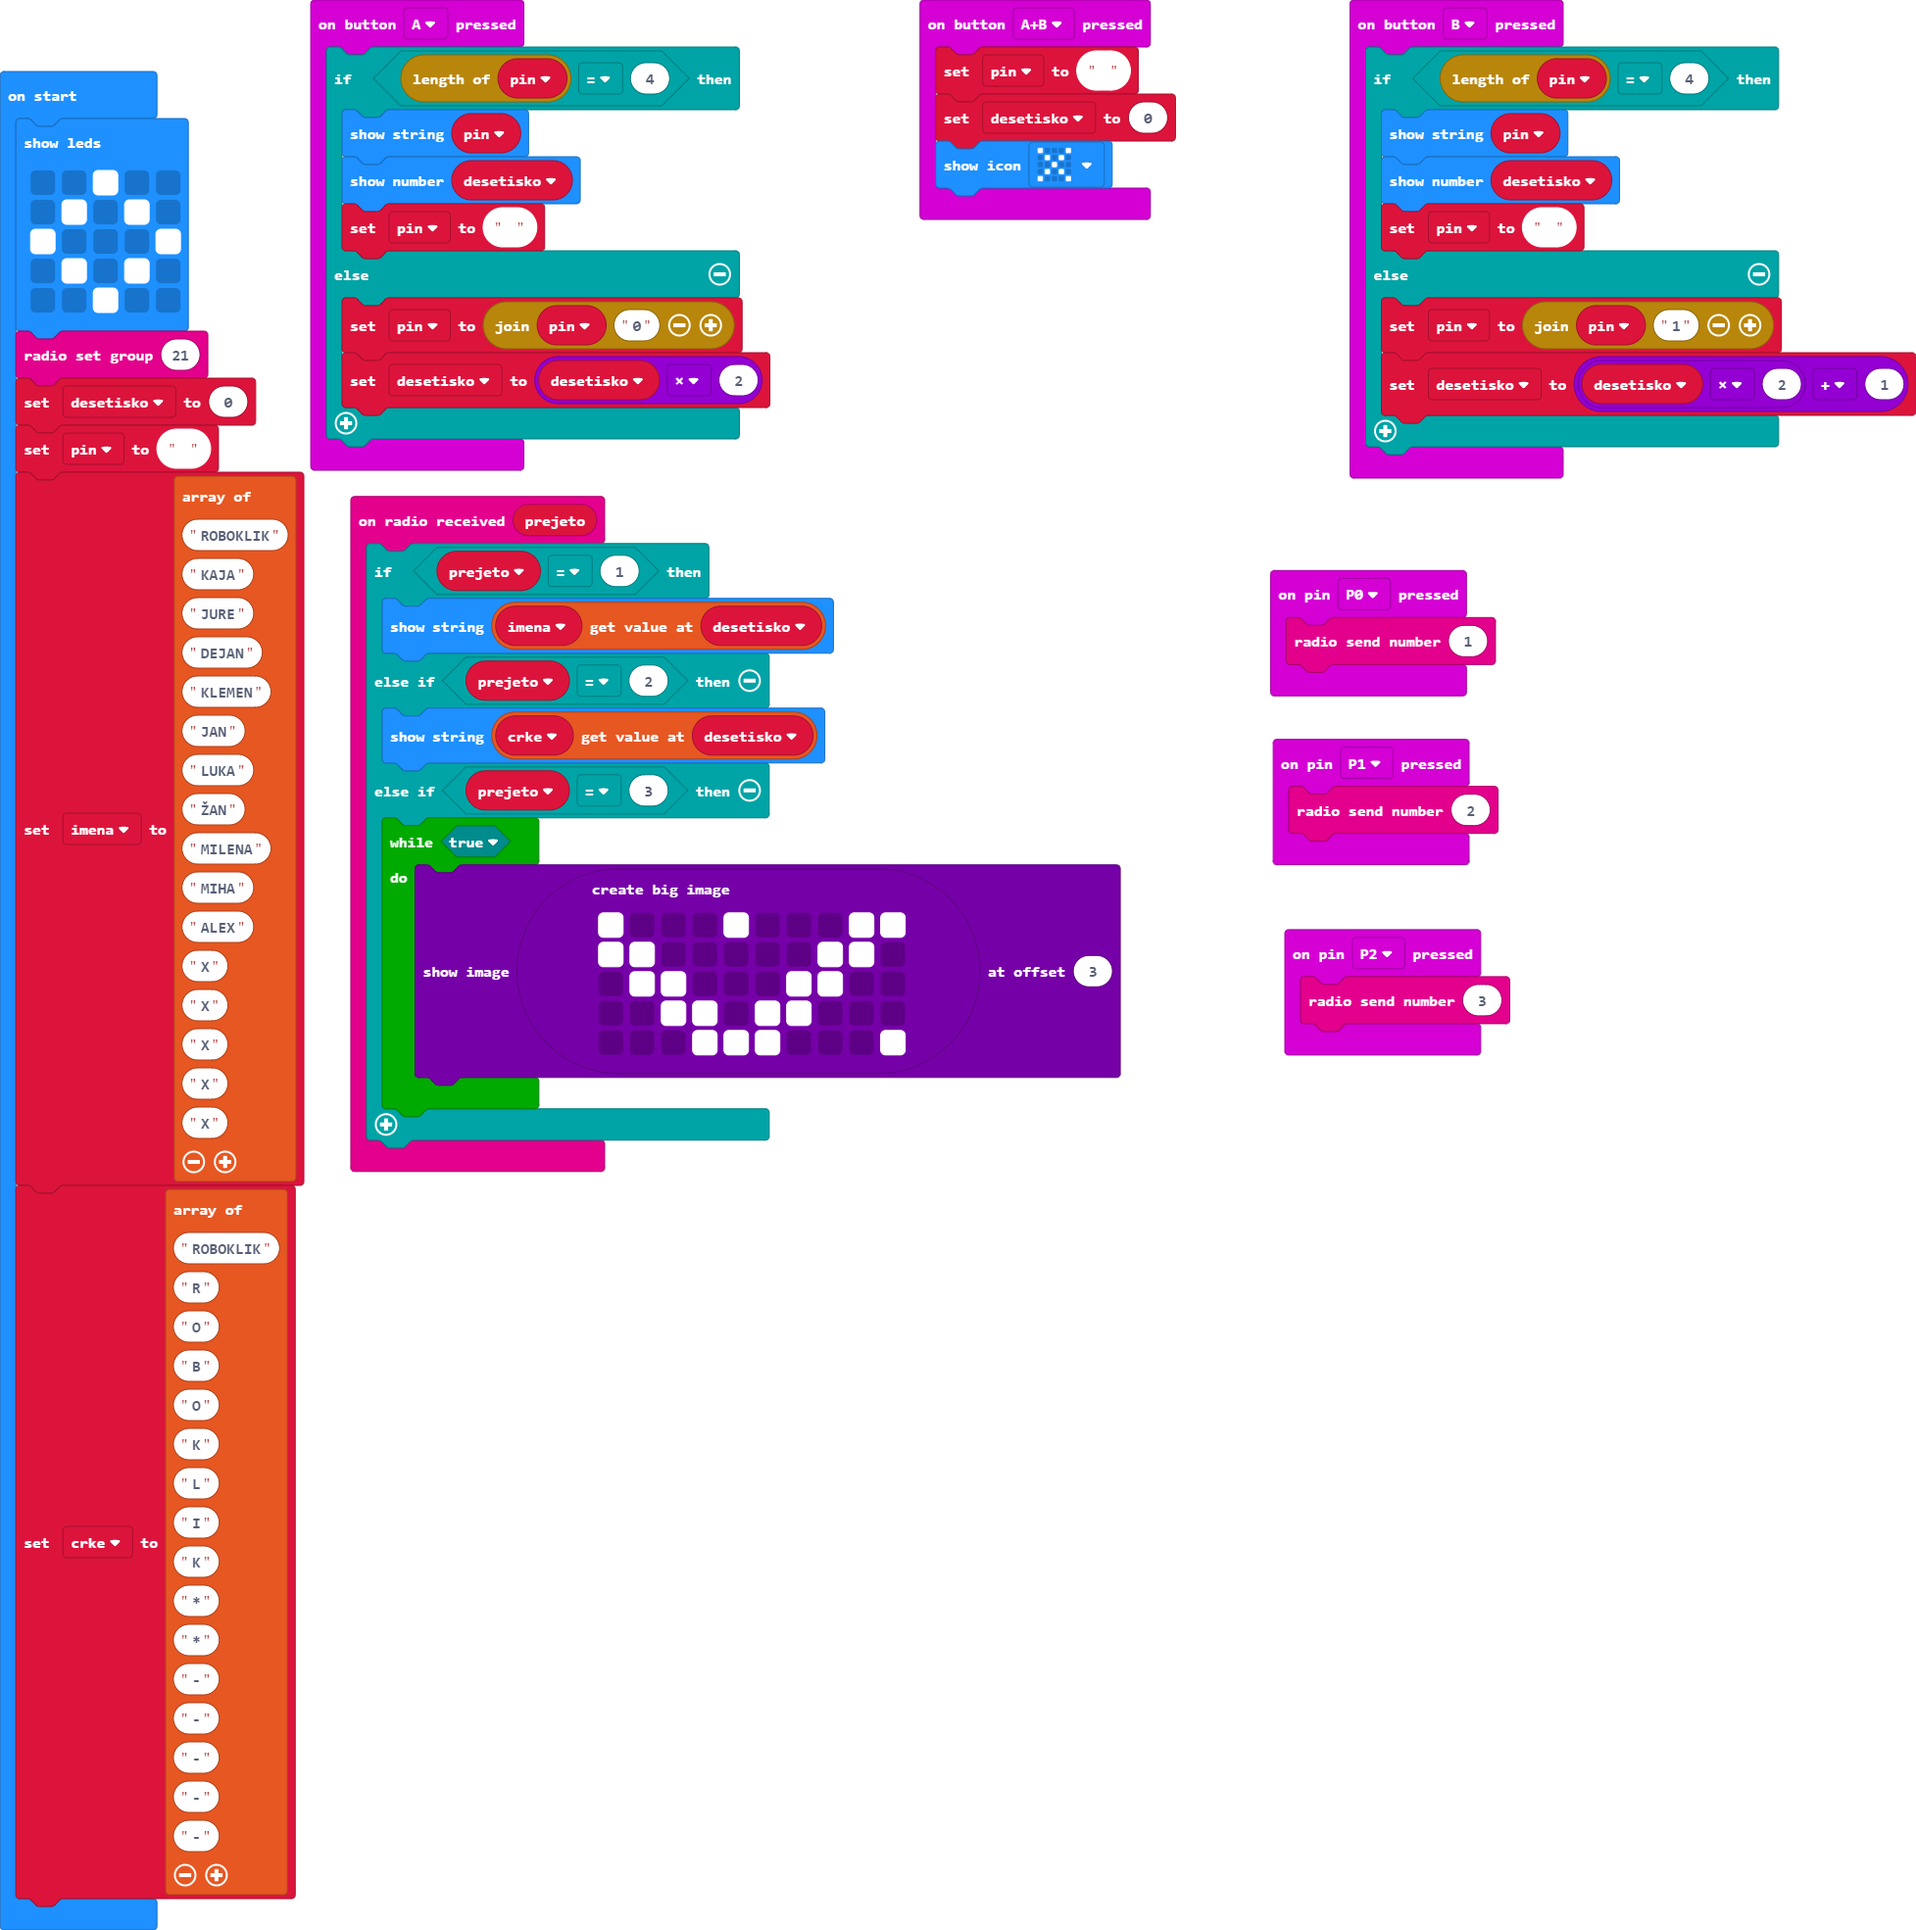
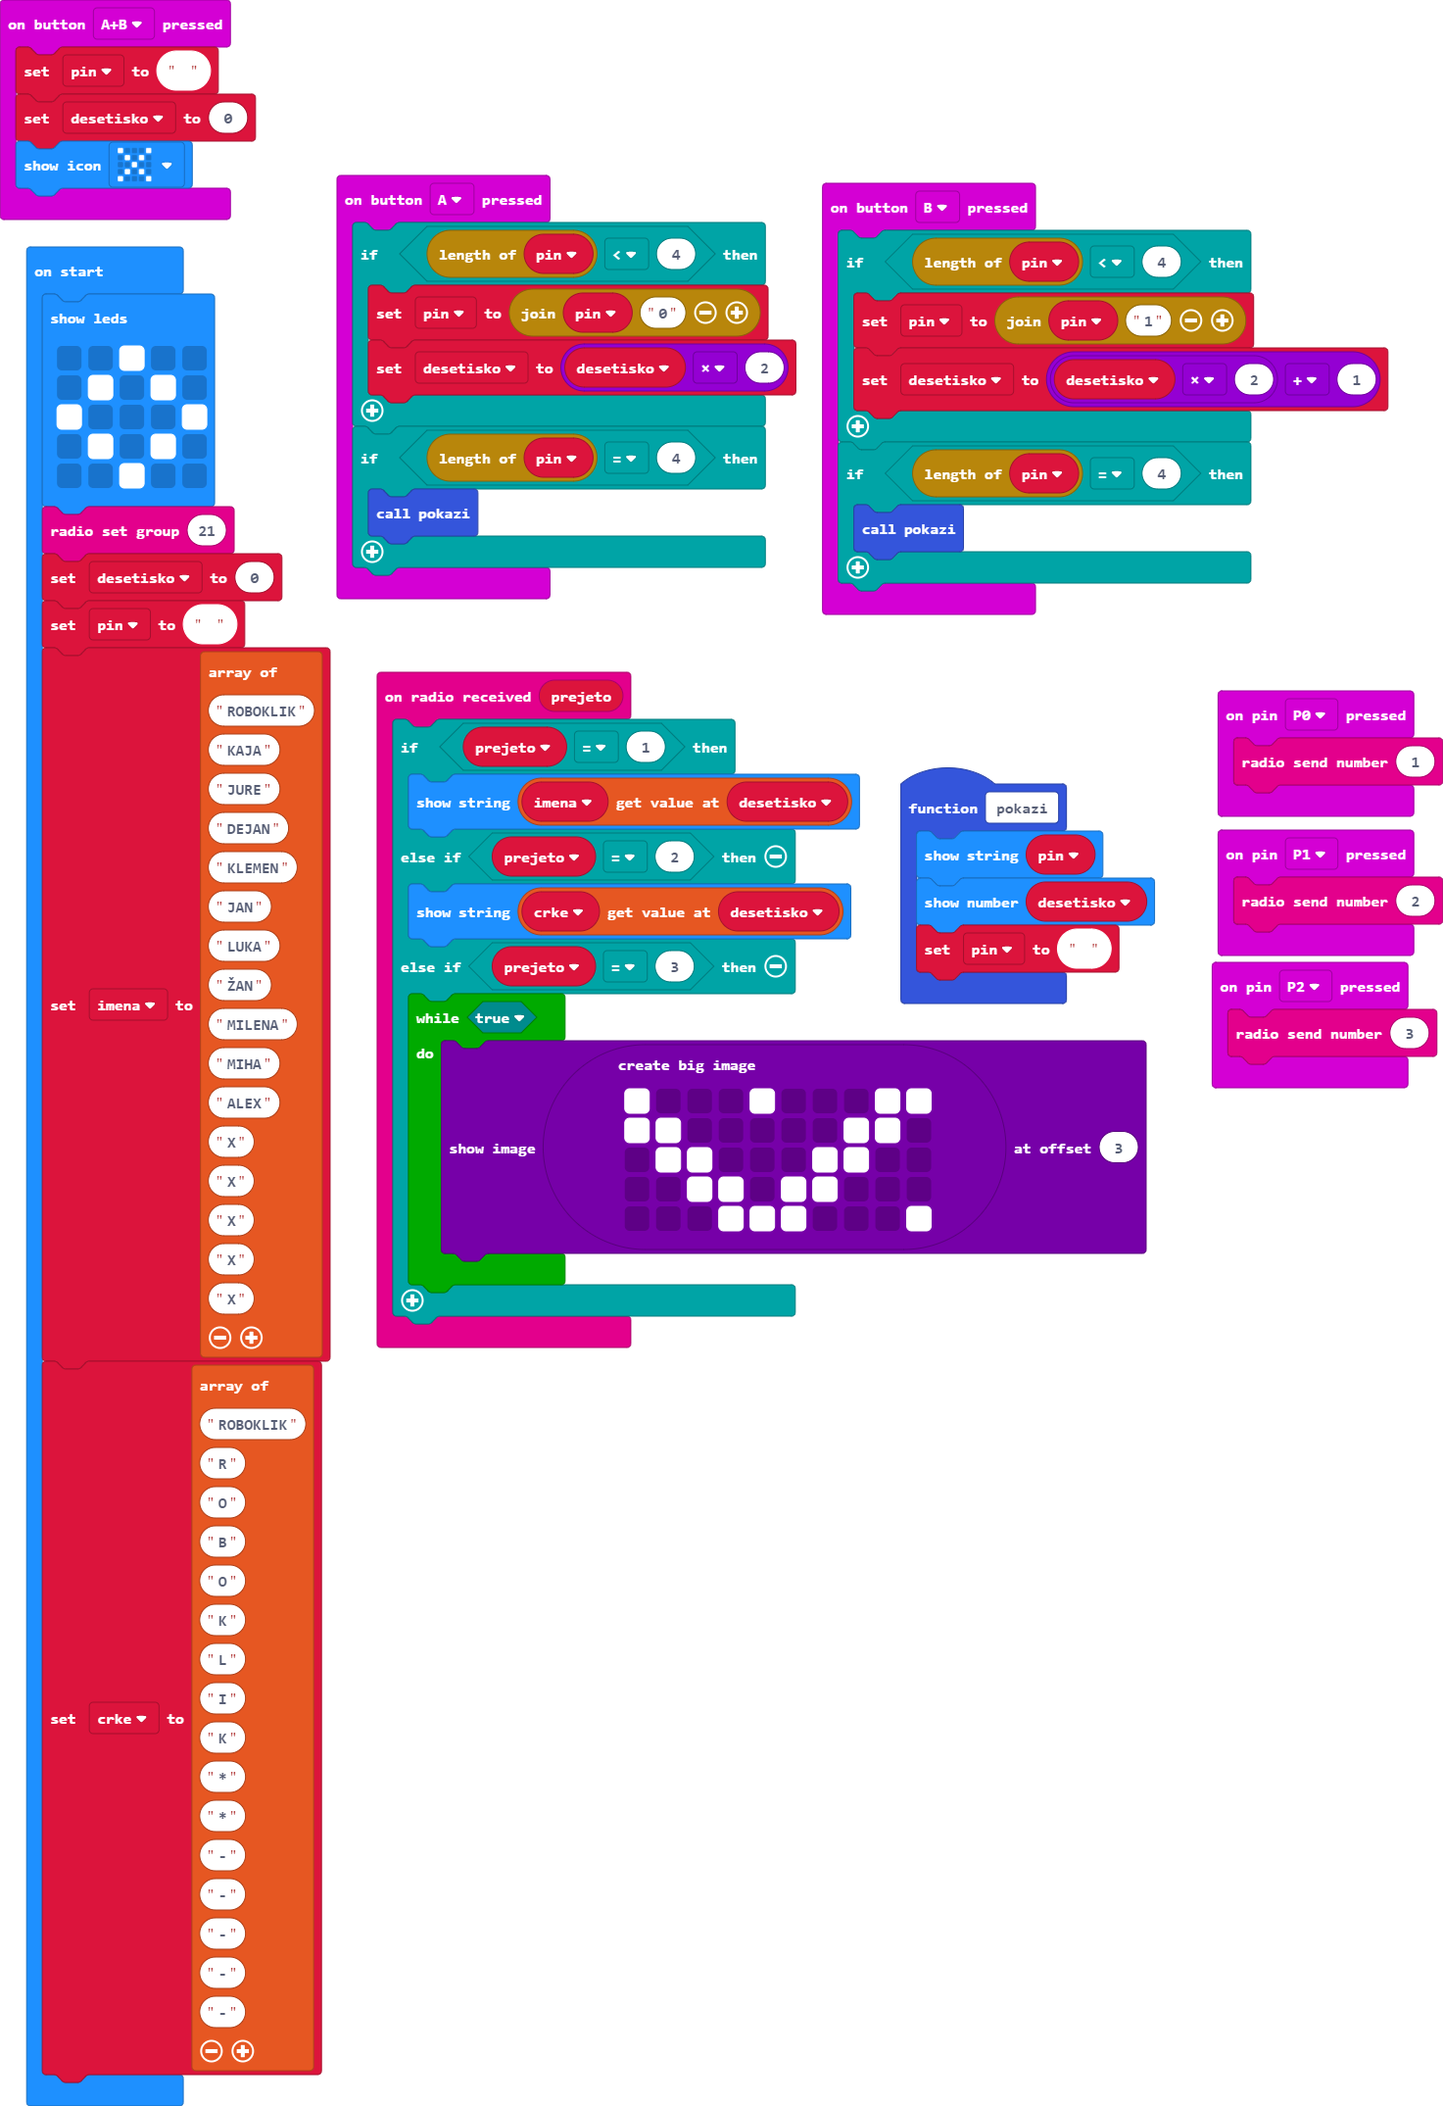
Update pxt.json, main.blocks, main.ts, main.py

diff --git a/main.ts b/main.ts
@@ -1,3 +1,8 @@
+function pokazi () {
+    basic.showString(pin)
+    basic.showNumber(desetisko)
+    pin = ""
+}
 input.onPinPressed(TouchPin.P1, function () {
     radio.sendNumber(2)
 })
@@ -10,13 +15,12 @@ input.onButtonPressed(Button.AB, function () {
     basic.showIcon(IconNames.No)
 })
 input.onButtonPressed(Button.B, function () {
-    if (pin.length == 4) {
-        basic.showString(pin)
-        basic.showNumber(desetisko)
-        pin = ""
-    } else {
+    if (pin.length < 4) {
         pin = "" + pin + "1"
         desetisko = desetisko * 2 + 1
+    }
+    if (pin.length == 4) {
+        pokazi()
     }
 })
 input.onPinPressed(TouchPin.P2, function () {
@@ -40,13 +44,12 @@ radio.onReceivedNumber(function (prejeto) {
     }
 })
 input.onButtonPressed(Button.A, function () {
-    if (pin.length == 4) {
-        basic.showString(pin)
-        basic.showNumber(desetisko)
-        pin = ""
-    } else {
+    if (pin.length < 4) {
         pin = "" + pin + "0"
         desetisko = desetisko * 2
+    }
+    if (pin.length == 4) {
+        pokazi()
     }
 })
 let crke: string[] = []

diff --git a/main.py b/main.py
@@ -1,0 +1,93 @@
+def pokaži():
+    basic.show_string(pin)
+    basic.show_number(desetisko)
+    pin = ""
+def pin_pressed_p1():
+    radio.send_number(2)
+input.on_pin_pressed(TouchPin.P1, pin_pressed_p1)
+def pin_pressed_p0():
+    radio.send_number(1)
+input.on_pin_pressed(TouchPin.P0, pin_pressed_p0)
+def button_pressed_ab():
+    pin = ""
+    desetisko = 0
+    basic.show_icon(IconNames.NO)
+input.on_button_pressed(Button.AB, button_pressed_ab)
+def button_pressed_b():
+    if len(pin) < 4:
+        pin = "" + pin + "1"
+        desetisko = desetisko * 2 + 1
+    else:
+        pokaži()
+input.on_button_pressed(Button.B, button_pressed_b)
+def pin_pressed_p2():
+    radio.send_number(3)
+input.on_pin_pressed(TouchPin.P2, pin_pressed_p2)
+def received_number(prejeto):
+    if prejeto == 1:
+        basic.show_string("" + (imena[desetisko]))
+    elif prejeto == 2:
+        basic.show_string("" + (crke[desetisko]))
+    elif prejeto == 3:
+        while True:
+            images.create_big_image("""
+                # . . . # . . . # #
+                # # . . . . . # # .
+                . # # . . . # # . .
+                . . # # . # # . . .
+                . . . # # # . . . #
+                """,).showImage(3)
+radio.on_received_number(received_number)
+def button_pressed_a():
+    if len(pin) < 4:
+        pin = "" + pin + "0"
+        desetisko = desetisko * 2
+    else:
+        pokaži()
+input.on_button_pressed(Button.A, button_pressed_a)
+crke: List[str] = []
+imena: List[str] = []
+pin = ""
+desetisko = 0
+basic.show_leds("""
+    . . # . .
+    . # . # .
+    # . . . #
+    . # . # .
+    . . # . .
+    """,)
+radio.set_group(21)
+desetisko = 0
+pin = ""
+imena = ["ROBOKLIK",
+    "KAJA",
+    "JURE",
+    "DEJAN",
+    "KLEMEN",
+    "JAN",
+    "LUKA",
+    "ŽAN",
+    "MILENA",
+    "MIHA",
+    "ALEX",
+    "X",
+    "X",
+    "X",
+    "X",
+    "X"]
+crke = ["ROBOKLIK",
+    "R",
+    "O",
+    "B",
+    "O",
+    "K",
+    "L",
+    "I",
+    "K",
+    "*",
+    "*",
+    "-",
+    "-",
+    "-",
+    "-",
+    "-"]
